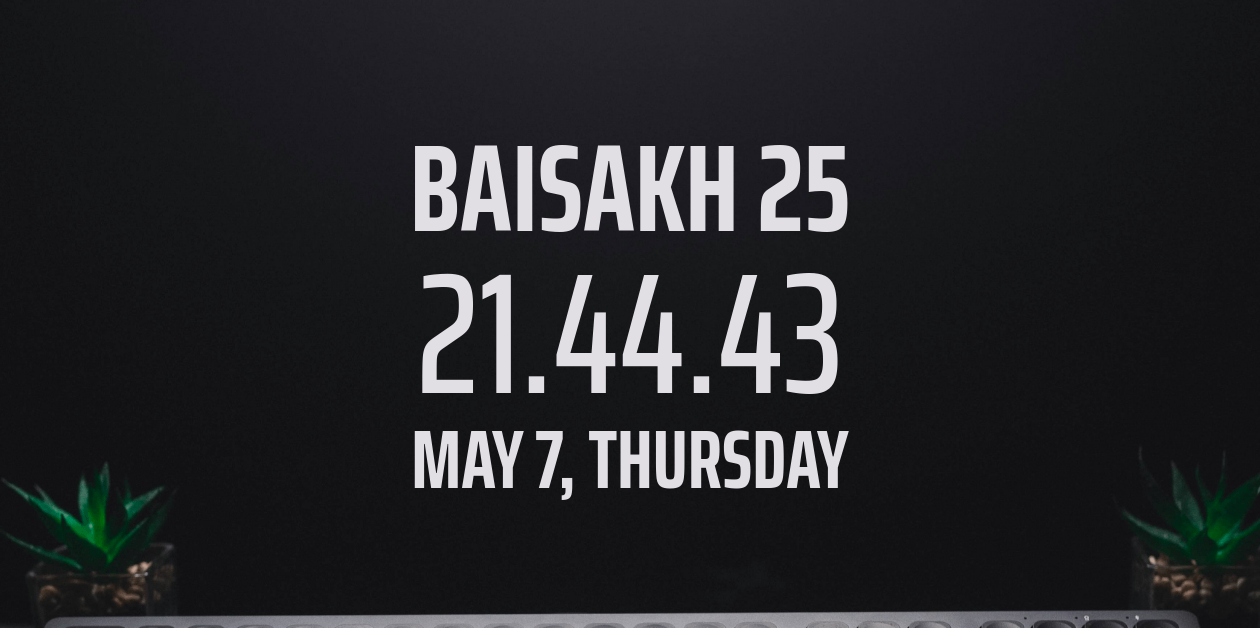
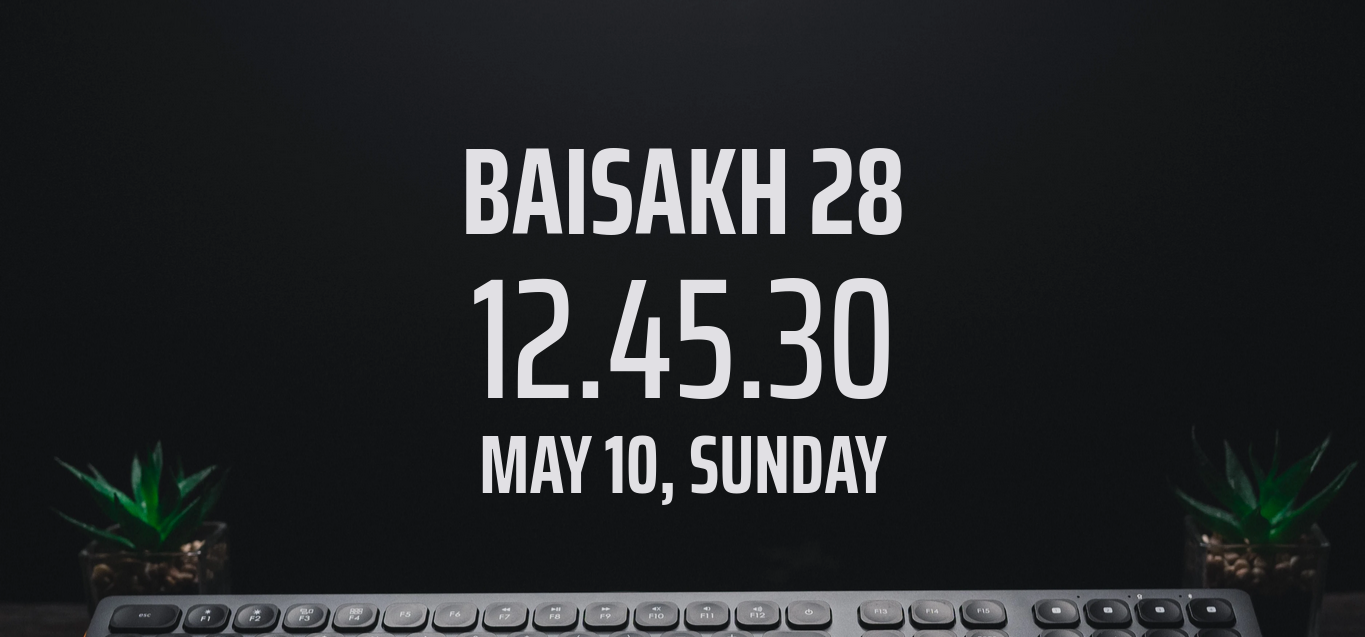
Bug fixes & other additional changes

diff --git a/README.md b/README.md
@@ -1,13 +1,28 @@
-# undistracted-me
+<img src="img/logo.svg" width="40%">
+
 A firefox extension to show distraction free nepali date for your new tab. [See on heroku](https://whatsthemiti.herokuapp.com/)
 
 <img src="img/hero.png" width="100%" height="auto">
 
-## Installation for chrome:
+## Firefox Installation:
 
-Download `undistratcedme.crx` from above and install in your chrome browser.
+[Link to the extension](https://addons.mozilla.org/en-US/firefox/addon/undistracted-me/)
+
+## Chrome Installation:
+
+##### Due to lack of payment gateway, the chrome extension isn't available yet. Though it can be installed indirectly with few steps as guided below.
+
+1. First **Clone or Download** this repository.
+2. After successfull download, unzip it with your archive manager.
+3. Open extensions page using [chrome://extensions](chrome://extensions)
+4. Now enable **Developer mode** located on your right side of navigation bar.
+5. Click on **Load Unpacked** and select your unzipped folder.
+
+If everything goes right, you could see undistracted me working seamlessly on your browser.
 
 ## TODOS:
 
-01. [x] Add On Firefox
-02. [ ] Add Simple Todos
+01. [x] Publish on Firefox
+02. [ ] Publish on Chrome
+03. [ ] Add Todos Functionality
+04. [ ] Integrate Weather Functionality
